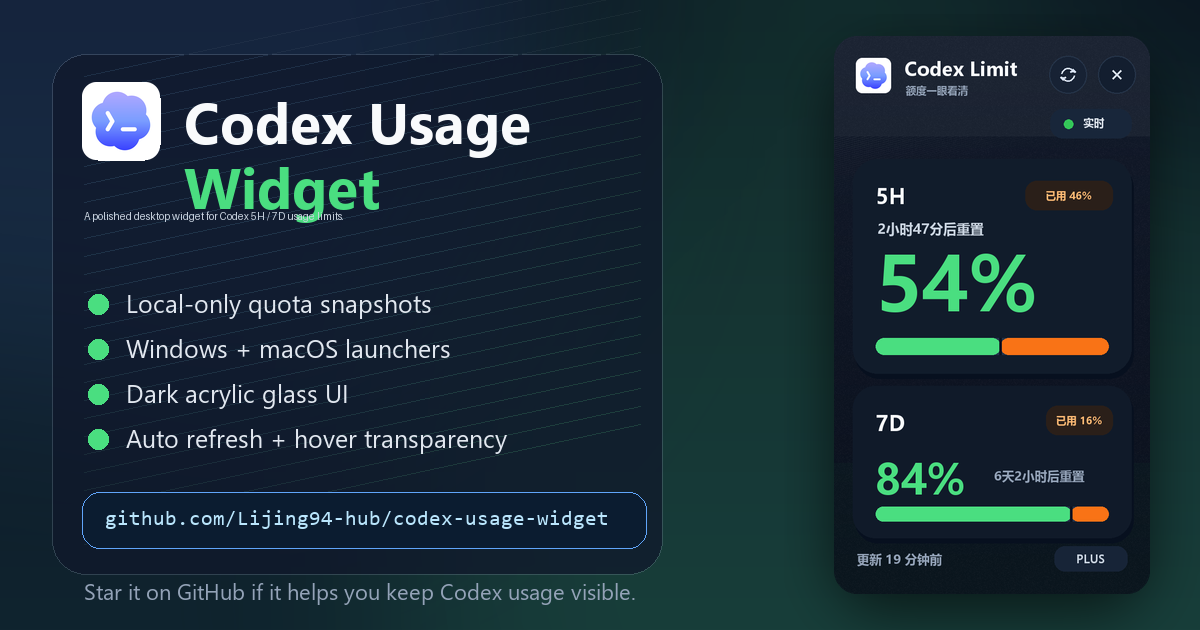
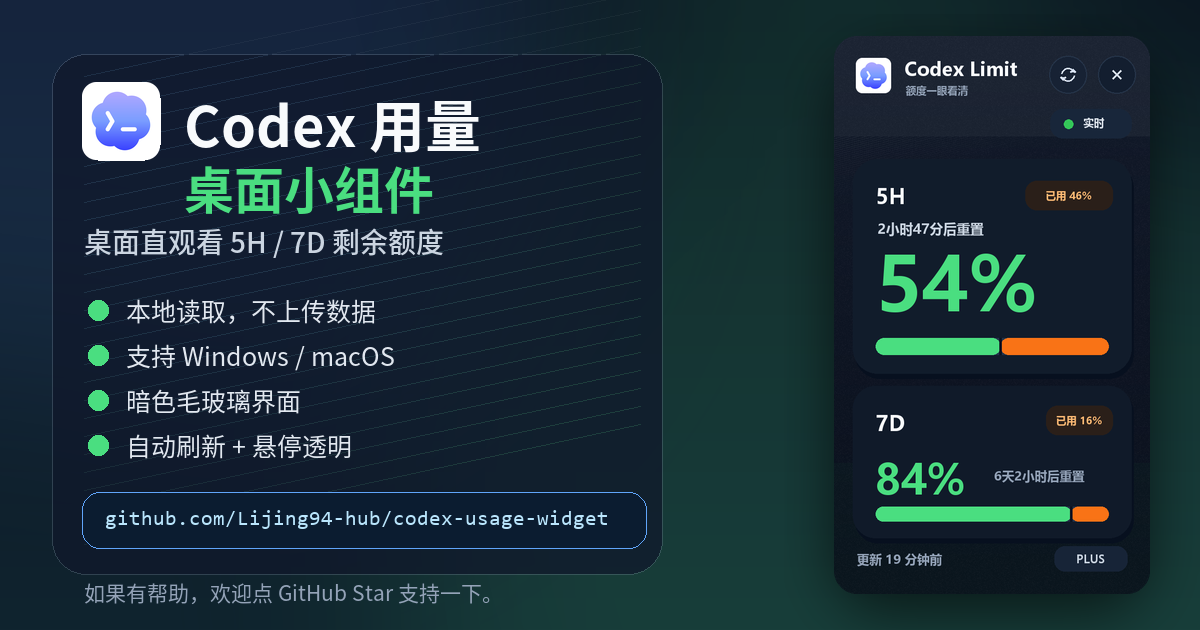
Localize promotion materials

diff --git a/docs/PROMOTION.md b/docs/PROMOTION.md
@@ -1,10 +1,10 @@
-# Promotion Kit
+# 中文推广包
 
 Repository:
 
 https://github.com/Lijing94-hub/codex-usage-widget
 
-## Short Chinese Post
+## 中文短文案
 
 我做了一个 Codex 桌面用量小组件：Codex Usage Widget。
 
@@ -14,7 +14,7 @@ https://github.com/Lijing94-hub/codex-usage-widget
 
 https://github.com/Lijing94-hub/codex-usage-widget
 
-## Very Short Chinese Post
+## 中文极简版
 
 我做了一个 Codex 桌面小组件，可以直接看 5H / 7D 用量，Windows 和 macOS 都能用，本地读取不上传数据，界面是毛玻璃风格。
 
@@ -22,7 +22,32 @@ https://github.com/Lijing94-hub/codex-usage-widget
 
 https://github.com/Lijing94-hub/codex-usage-widget
 
-## English Post
+## 发给朋友
+
+我最近做了个小作品，叫 Codex Usage Widget。它是一个桌面小组件，用来直接看 Codex 的 5H / 7D 用量，还支持 Windows / macOS。
+
+项目地址在这里，方便的话帮我点个 Star：
+
+https://github.com/Lijing94-hub/codex-usage-widget
+
+## 朋友圈版本
+
+最近做了个 Codex 桌面小组件，可以直接在桌面看 5H / 7D 用量，支持 Windows / macOS，本地读取，不上传数据。
+
+做了毛玻璃界面、自动刷新、悬停透明和中英文适配。常用 Codex 的朋友应该会比较需要。
+
+项目放 GitHub 了，欢迎帮我点个 Star：
+
+https://github.com/Lijing94-hub/codex-usage-widget
+
+## 去哪里发
+
+- 朋友圈或微信技术群：用短中文版本，配 `docs/social-preview.png`
+- 同事或朋友：用 Friend Message，语气更自然
+- V2EX / 即刻 / 掘金 / 小红书：重点说“本地读取、不上传数据、直接看 5H / 7D”
+- GitHub Profile README：把项目放到 pinned repositories
+
+## 英文备用版
 
 I built Codex Usage Widget, a small desktop widget for checking local Codex 5-hour and 7-day usage limits at a glance.
 
@@ -32,22 +57,6 @@ If you use Codex often, I would love your feedback. A GitHub Star also helps mor
 
 https://github.com/Lijing94-hub/codex-usage-widget
 
-## Friend Message
-
-我最近做了个小作品，叫 Codex Usage Widget。它是一个桌面小组件，用来直接看 Codex 的 5H / 7D 用量，还支持 Windows / macOS。
-
-项目地址在这里，方便的话帮我点个 Star：
-
-https://github.com/Lijing94-hub/codex-usage-widget
-
-## Where To Share
-
-- 朋友圈或微信技术群：用短中文版本，配 `docs/social-preview.png`
-- 同事或朋友：用 Friend Message，语气更自然
-- X / Twitter：用 English Post，配截图
-- Reddit / Hacker News / V2EX：重点说它是 local-only、unofficial、privacy-friendly
-- GitHub Profile README：把项目放到 pinned repositories
-
-## Star Instructions
+## 点 Star 说明
 
 Open the repository, sign in to GitHub, then click the `Star` button near the top of the page. When it becomes `Starred`, it worked.

diff --git a/README.md b/README.md
@@ -8,6 +8,8 @@
 
 <p align="center">
   <strong>A polished desktop widget for checking your local Codex usage limits at a glance.</strong>
+  <br>
+  <strong>一个用于查看 Codex 5H / 7D 用量的精致桌面小组件。</strong>
 </p>
 
 <p align="center">
@@ -30,6 +32,8 @@
 
 Codex Usage Widget is built for people who keep Codex open all day and want quota awareness without opening dashboards, digging through logs, or guessing when the next reset happens.
 
+中文用户可以把它当成一个常驻桌面的 Codex 额度看板：不用打开网页，不用翻日志，直接看 5H 和 7D 剩余用量。
+
 It sits quietly on the desktop, shows the two limits that matter most, and makes the important numbers large enough to read at a glance:
 
 - `5H`: the short-window Codex quota
@@ -38,6 +42,8 @@ It sits quietly on the desktop, shows the two limits that matter most, and makes
 The interface is intentionally compact and premium-feeling: dark acrylic glass, high-DPI rendering, rounded geometry, Codex branding, color-coded quota bars, hover translucency, and a layout that stays useful even when one window has reset and is waiting for a fresh Codex record.
 
 If this project helps you keep Codex usage visible, a GitHub Star helps more users discover it.
+
+如果这个小组件对你有帮助，欢迎点一个 GitHub Star 支持一下。
 
 ## Why It Feels Good
 